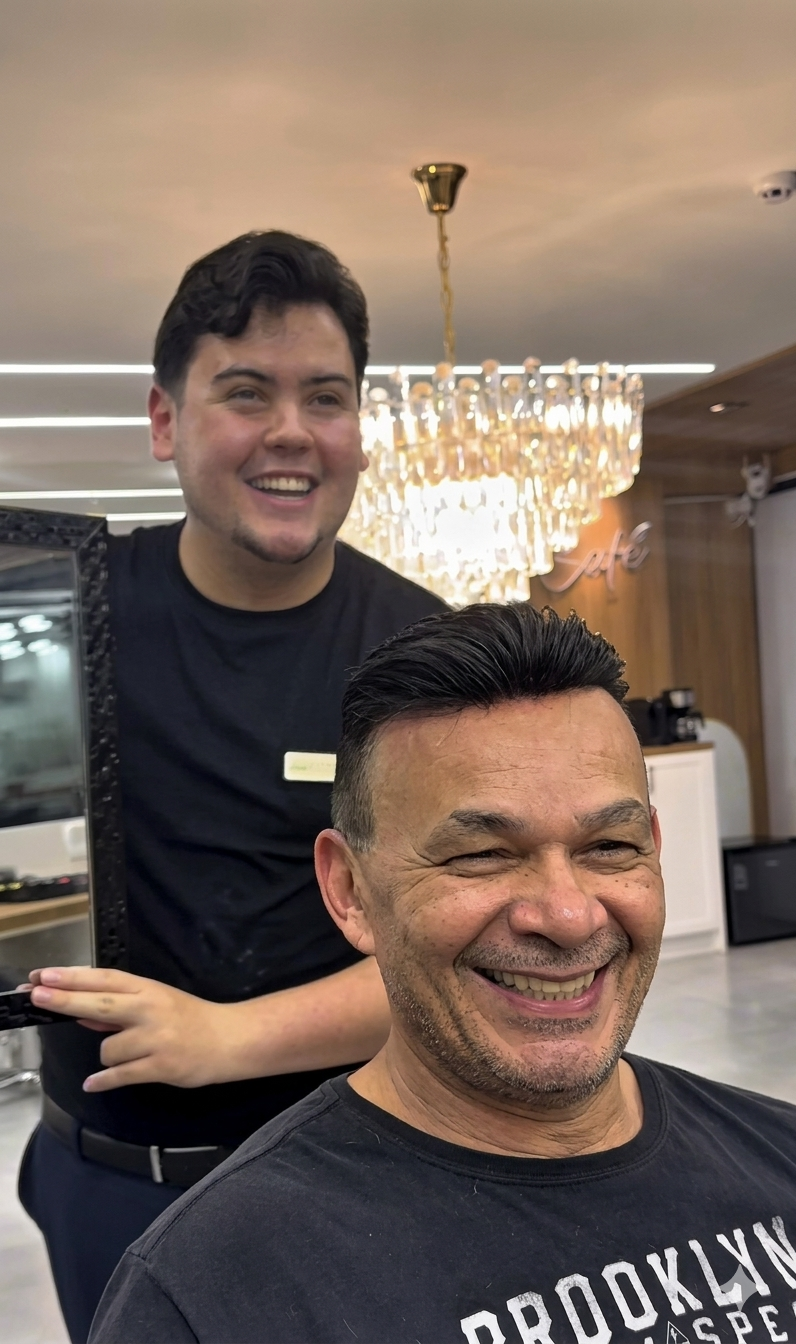
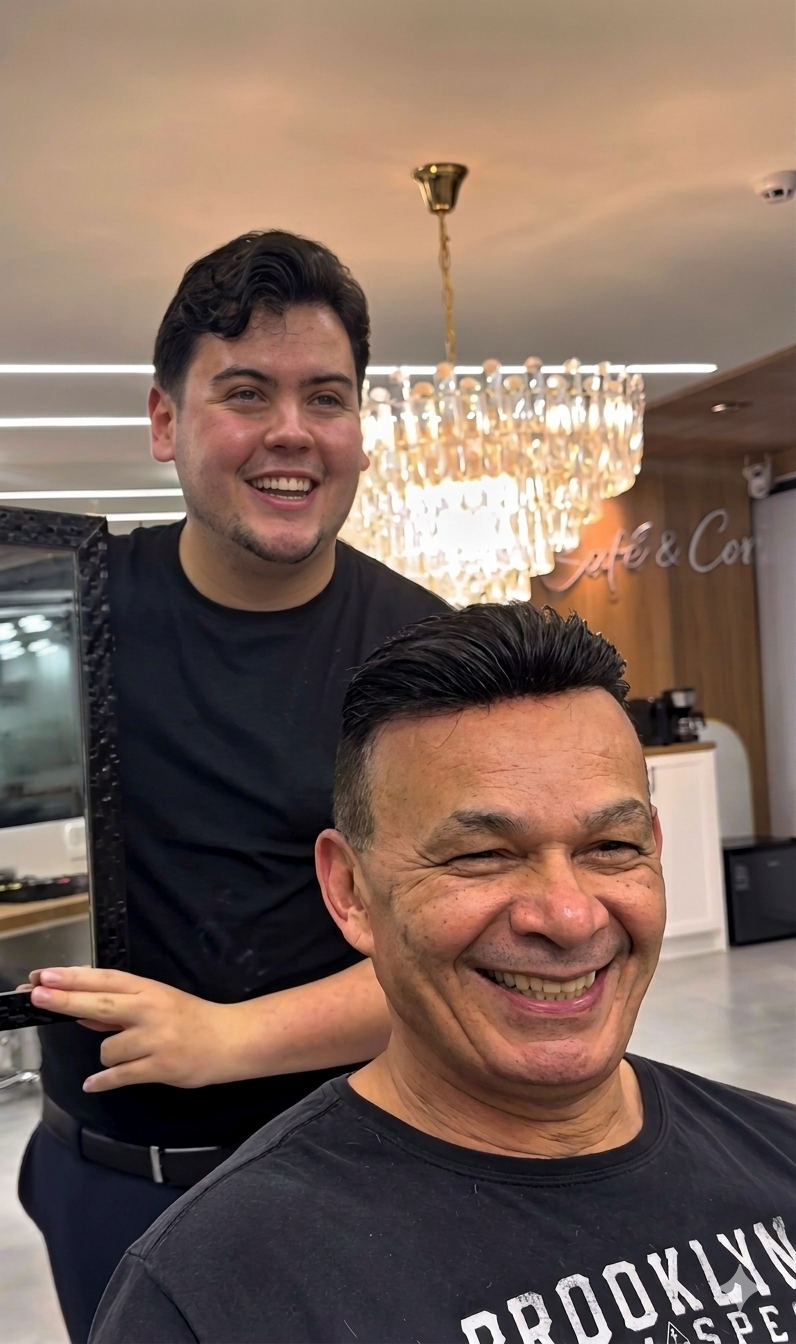
fix: config adapter-static to build the site

diff --git a/src/lib/components/Hero.svelte b/src/lib/components/Hero.svelte
@@ -83,19 +83,23 @@
 						class="w-full h-full object-cover"
 					/>
 					<!-- Edge fade: top -->
-					<div class="absolute inset-x-0 top-0 h-20 pointer-events-none  border-white bg-linear-to-b from-bg-primary to-transparent from-20%"
+					<div class="absolute inset-x-0 top-0 h-20 pointer-events-none"
+						style="background: linear-gradient(to bottom, var(--color-bg-primary), transparent);"
 						aria-hidden="true"
 					></div>
 					<!-- Edge fade: bottom -->
-					<div class="absolute inset-x-0 bottom-0 h-20 pointer-events-none  border-white bg-linear-to-t from-bg-primary to-transparent from-20%"
+					<div class="absolute inset-x-0 bottom-0 h-20 pointer-events-none"
+						style="background: linear-gradient(to top, var(--color-bg-primary), transparent);"
 						aria-hidden="true"
 					></div>
 					<!-- Edge fade: left -->
-					<div class="absolute inset-y-0 left-0 w-20 pointer-events-none  border-white bg-linear-to-r from-bg-primary to-transparent from-20%"
+					<div class="absolute inset-y-0 left-0 w-20 pointer-events-none"
+						style="background: linear-gradient(to right, var(--color-bg-primary), transparent);"
 						aria-hidden="true"
 					></div>
 					<!-- Edge fade: right -->
-					<div class="absolute inset-y-0 right-0 w-20 pointer-events-none  border-white bg-linear-to-l from-bg-primary to-transparent from-20%"
+					<div class="absolute inset-y-0 right-0 w-20 pointer-events-none"
+						style="background: linear-gradient(to left, var(--color-bg-primary), transparent);"
 						aria-hidden="true"
 					></div>
 				</div>

diff --git a/svelte.config.js b/svelte.config.js
@@ -1,4 +1,4 @@
-import adapter from '@sveltejs/adapter-auto';
+import adapter from '@sveltejs/adapter-static';
 import { relative, sep } from 'node:path';
 
 /** @type {import('@sveltejs/kit').Config} */
